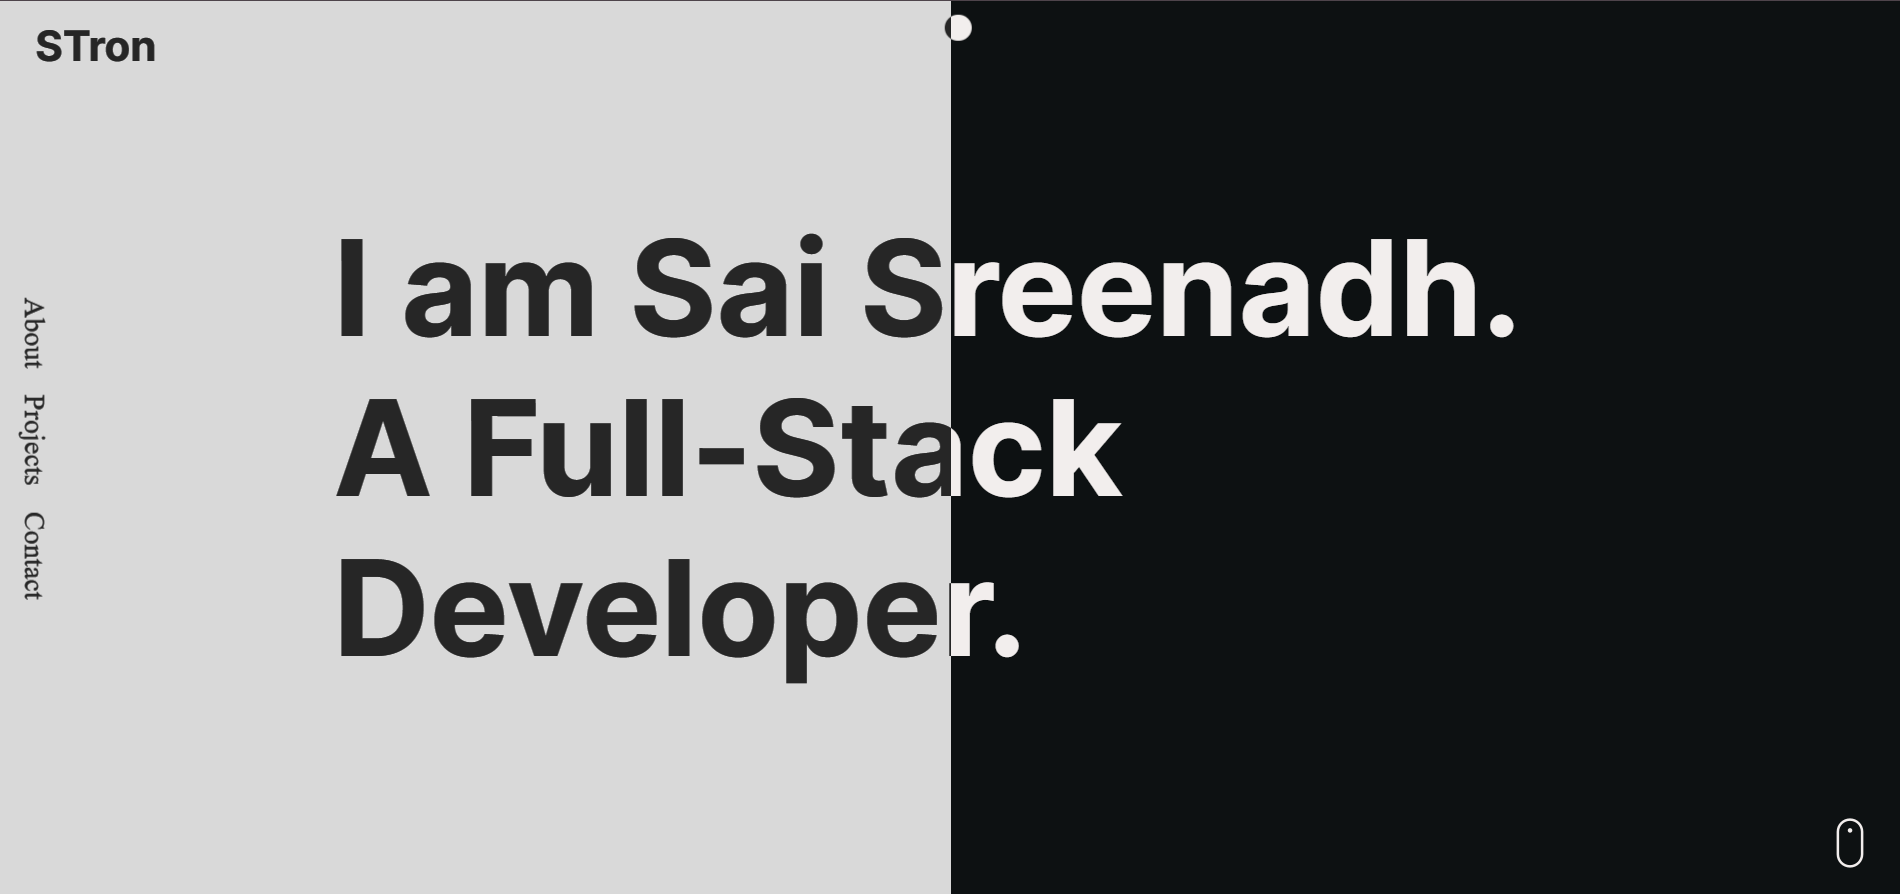
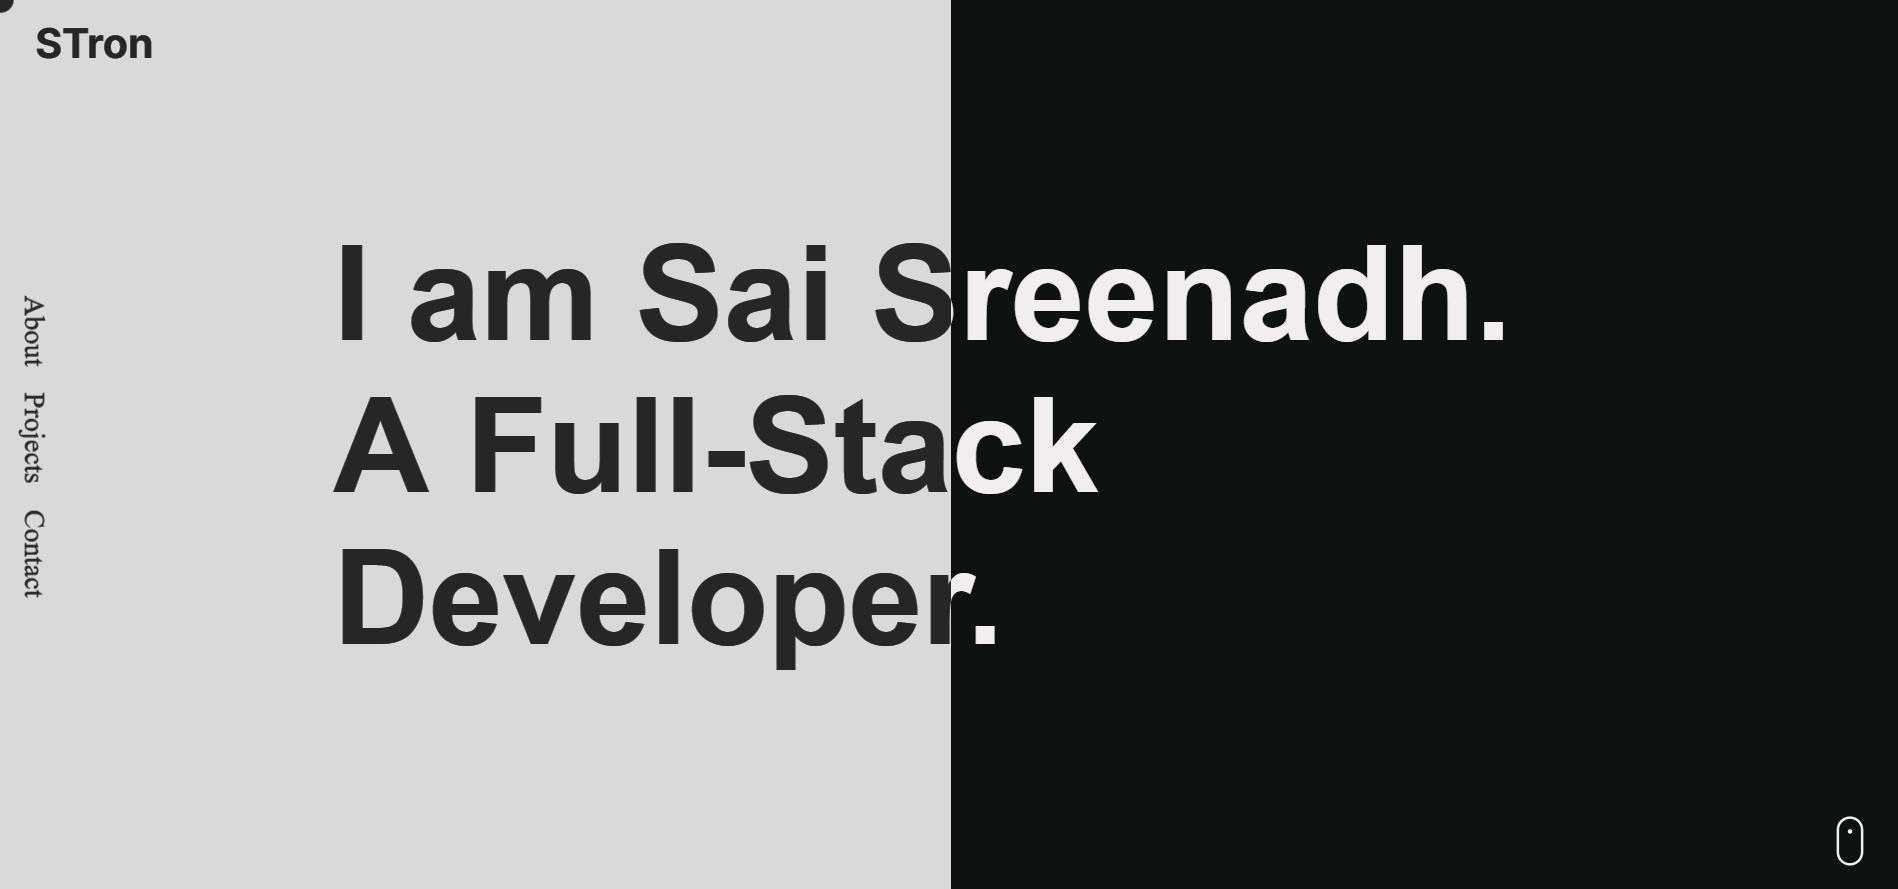
Added Analytics

diff --git a/src/app/layout.tsx b/src/app/layout.tsx
@@ -1,14 +1,12 @@
 "use client";
 import Cursor from "@/components/cursor/cursor.component";
-import { useGSAP } from "@gsap/react";
 import gsap from "gsap";
-import { ScrollToPlugin } from "gsap/ScrollToPlugin";
-import { ScrollTrigger } from "gsap/ScrollTrigger";
 import { Inter } from "next/font/google";
 import Head from "next/head";
-import React, { RefObject, createContext, useRef, useState } from "react";
-import "./globals.css";
+import React, { useRef, useState } from "react";
 import { gsapContext } from "./context";
+import "./globals.css";
+import { Analytics } from "@vercel/analytics/react";
 
 const inter = Inter({ subsets: ["latin"] });
 
@@ -41,7 +39,10 @@ export default function RootLayout({ children }: { children: React.ReactNode }) 
 				</Head>
 				<body className={inter.className}>
 					<Cursor cursorRef={cursorRef} isCursorStuck={isCursorStuck} />
-					<div>{children}</div>
+					<div>
+						{children}
+						<Analytics />
+					</div>
 				</body>
 			</html>
 		</gsapContext.Provider>
